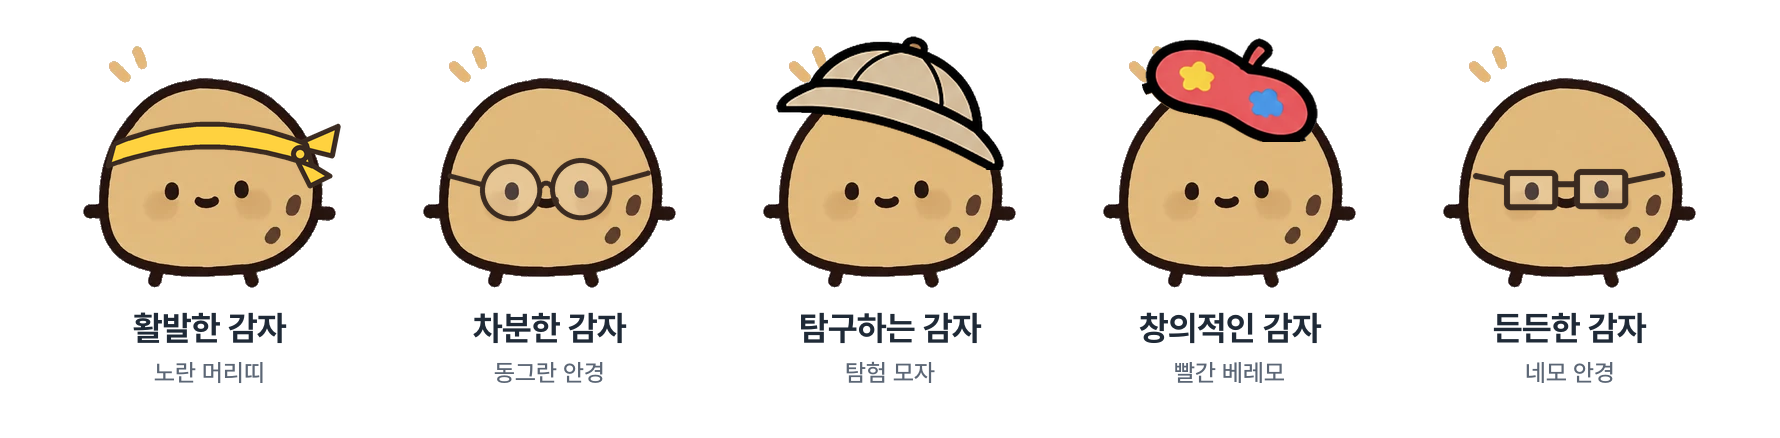
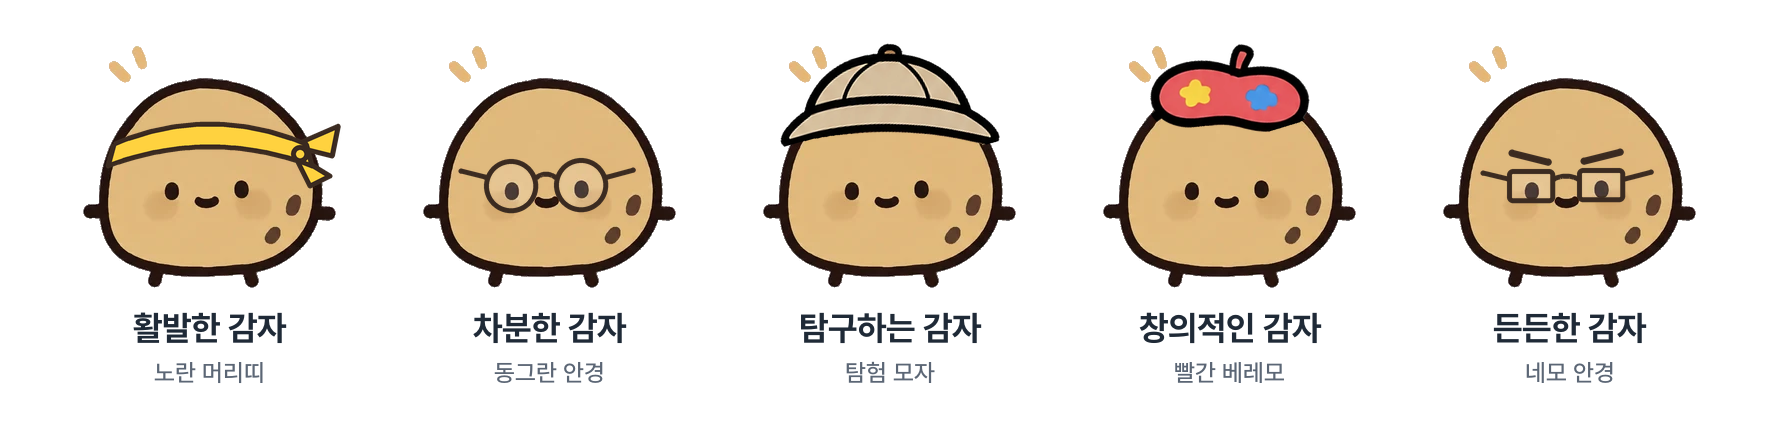
유형 소품 다듬기: 탐험 모자·베레모 수평 맞춤, 안경을 줄이고 살짝 올려 입과 겹치지 않게, 든든한 감자에 힘준 눈썹

diff --git a/src/components/Mascot.jsx b/src/components/Mascot.jsx
@@ -74,7 +74,8 @@ function Eyelids({ sleeping }) {
 /* 감자 유형 소품 (유형 테스트 결과): 내 감자가 그 유형의 포인트 하나를 받아 쓴다.
    그림 좌표(300×348): 머리 꼭대기 (150,134), 눈 (111,240)·(181,239), 몸통 폭 대략 40~262 */
 // [그림, x, y, 너비, 높이] (그림 좌표 300×348)
-const HAT = { searching: [hatSearching, 36, 84, 228, 138], creative: [hatCreative, 62, 84, 176, 111] };
+// 모자는 팀원 그림에서 기울어진 채로 오려서, 수평이 맞게 돌려 저장해 두었다
+const HAT = { searching: [hatSearching, 40, 70, 220, 150], creative: [hatCreative, 70, 78, 160, 120] };
 const HAT_LIFT = { searching: 44, creative: 40 };
 export const OUTFIT_LABELS = { calm: '동그란 안경', cheerful: '노란 머리띠', searching: '탐험 모자', creative: '빨간 베레모', dependable: '네모 안경' };
 function Outfit({ type }) {
@@ -91,25 +92,27 @@ function Outfit({ type }) {
       </g>
     );
   } else if (type === 'calm') {
+    // 안경알은 눈보다 조금 위에(눈이 알 아래쪽에 오게) 두고, 코받침 다리는 입에 닿지 않게 알 윗부분에서 잇는다
     art = (
       <g {...st} fill="none">
-        {EYES.map(([x, y]) => (
-          <circle key={x} cx={x} cy={y} r="31" fill="#ffffff" fillOpacity="0.18" />
-        ))}
-        <path d="M141 236 Q146 230 151 236" />
-        <path d="M80 234 L50 226" />
-        <path d="M212 233 L248 223" />
+        <circle cx="111" cy="236" r="27" fill="#ffffff" fillOpacity="0.16" />
+        <circle cx="181" cy="235" r="27" fill="#ffffff" fillOpacity="0.16" />
+        <path d="M137 227 Q146 221 155 227" />
+        <path d="M85 227 L61 221" />
+        <path d="M207 227 L233 220" />
       </g>
     );
   } else if (type === 'dependable') {
+    // 네모 안경 + 힘준 눈썹 (팀원 그림의 든든한 감자처럼)
     art = (
-      <g {...st} fill="none" strokeWidth="6">
-        {EYES.map(([x, y]) => (
-          <rect key={x} x={x - 27} y={y - 20} width="54" height="40" rx="7" fill="#ffffff" fillOpacity="0.18" />
-        ))}
-        <path d="M138 234 L154 234" />
-        <path d="M84 232 L56 226" />
-        <path d="M208 231 L242 224" />
+      <g {...st} fill="none">
+        <rect x="87" y="219" width="48" height="34" rx="6" fill="#ffffff" fillOpacity="0.16" />
+        <rect x="157" y="218" width="48" height="34" rx="6" fill="#ffffff" fillOpacity="0.16" />
+        <path d="M134 229 Q146 223 158 229" />
+        <path d="M88 229 L63 223" />
+        <path d="M204 229 L231 222" />
+        <path d="M92 203 L128 212" strokeWidth="7" />
+        <path d="M164 211 L200 202" strokeWidth="7" />
       </g>
     );
   } else if (type === 'searching' || type === 'creative') {
